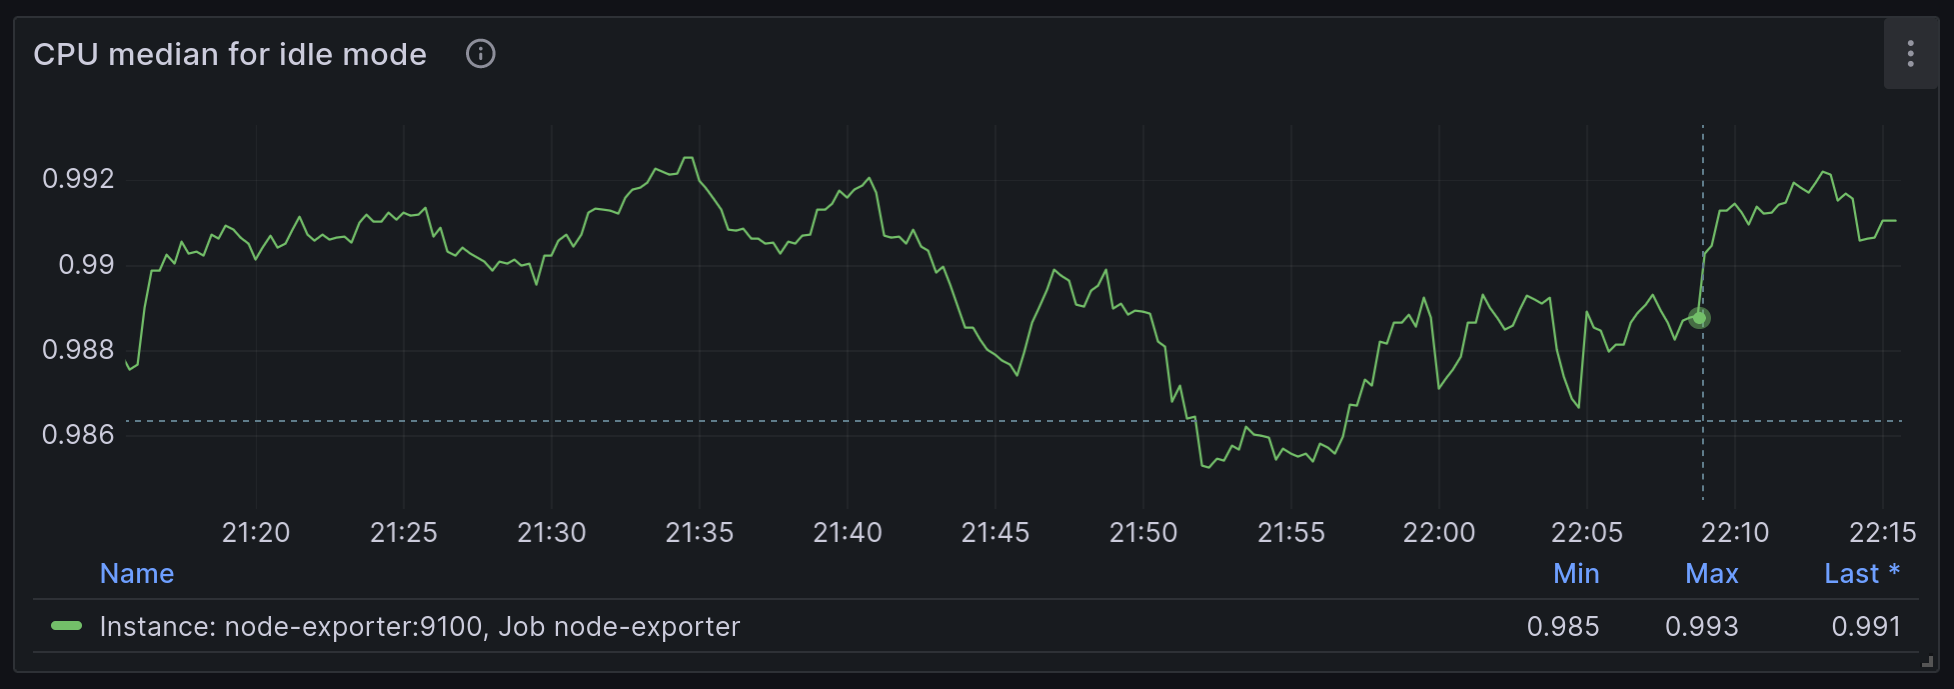
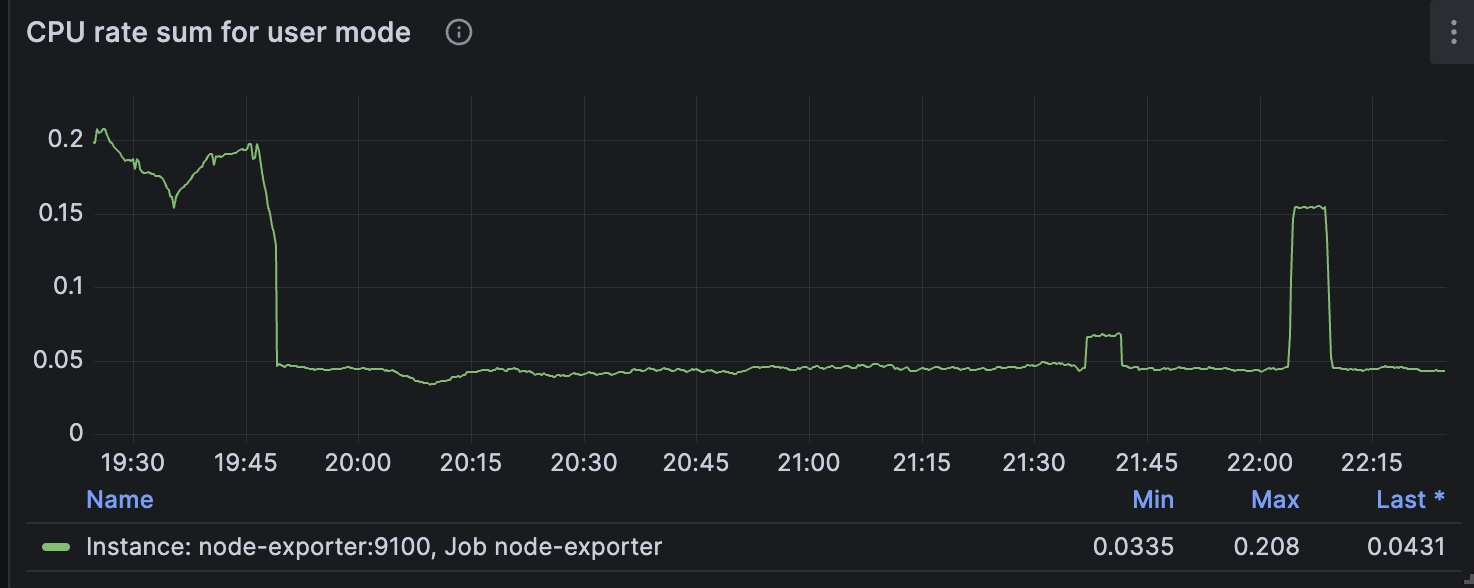
Vmanomaly Guide - dashboard and query change (#5771)
* dashboard fix

* query fix

* changed screenshots

* minor fixes

diff --git a/docs/anomaly-detection/guides/guide-vmanomaly-vmalert.md b/docs/anomaly-detection/guides/guide-vmanomaly-vmalert.md
@@ -101,7 +101,7 @@ node_cpu_seconds_total{cpu="1",mode="iowait"} 51.22
 
 In this context, the metric `node_cpu_seconds_total` provides a comprehensive breakdown of the time each CPU core has spent in various operational modes. These modes include: _user_, _system_, _iowait_, _idle_, _irq&softirq_, _guest_, and _steal_. Each of these eight modes is mutually exclusive, offering distinct insights into CPU activity. For instance, a predominant _iowait_ suggests disk or network bottlenecks, while elevated levels in _user_ or _system_ indicate significant CPU utilization.
 
-The `node_cpu_seconds_total` metric is classified as a [counter](https://docs.victoriametrics.com/keyConcepts.html#counter) type. To analyze the duration each CPU core spends in these modes, it is necessary to compute the rate of change per second using the [rate function](https://docs.victoriametrics.com/MetricsQL.html#rate): `rate(node_cpu_seconds_total)`. For a more refined and smoother aggregation of data by mode, we apply the median function, or the 50% quantile. The resulting query is formulated as follows: `quantile by (mode) (0.5, rate(node_cpu_seconds_total[5m]))`.
+The `node_cpu_seconds_total` metric is classified as a [counter](https://docs.victoriametrics.com/keyConcepts.html#counter) type. To analyze the duration each CPU core spends in these modes, it is necessary to compute the rate of change per second using the [rate function](https://docs.victoriametrics.com/MetricsQL.html#rate): `rate(node_cpu_seconds_total)`. For a more refined and smoother aggregation of data by mode, we apply the sum function. The resulting query is formulated as follows: `sum(rate(node_cpu_seconds_total[5m])) by (mode, instance, job)`.
 
 Below is an illustrative example of how this query might be visualized in Grafana:
 <img alt="node_cpu_rate_graph" src="guide-vmanomaly-vmalert-query.webp">
@@ -160,7 +160,7 @@ model:
 reader:
   datasource_url: "http://victoriametrics:8428/"
   queries:
-    node_cpu_rate: "quantile by (mode) (0.5, rate(node_cpu_seconds_total[5m])"
+    node_cpu_rate: "sum(rate(node_cpu_seconds_total[5m])) by (mode, instance, job)"
 
 writer:
   datasource_url: "http://victoriametrics:8428/"
@@ -199,7 +199,7 @@ groups:
     labels:
       severity: warning
     annotations:
-      summary: Anomaly Score exceeded 1.0. `rate(node_cpu_seconds_total)` is showing abnormal behavior. 
+      summary: Anomaly Score exceeded 1.0. `sum(rate(node_cpu_seconds_total))` is showing abnormal behavior. 
 ```
 
 In the query expression `expr`, it's crucial to establish a criterion based on the generated anomaly scores. Typically, an [anomaly score](https://docs.victoriametrics.com/anomaly-detection/faq/#what-is-anomaly-score) ranging from 0.0 to 1.0 indicates that the analyzed value falls within normal behavior. Scores exceeding 1.0 signal increasing confidence from our model that the observed value is anomalous.
@@ -470,13 +470,13 @@ To look at model results we need to go to grafana on the `localhost:3000`. Data
 vmanomaly need some time to generate more data to visualize.
 Let's investigate model output visualization in Grafana.
 On the Grafana Dashboard `Vmanomaly Guide` for each mode of CPU you can investigate:
-* initial query result - `quantile by (mode) (0.5, rate(node_cpu_seconds_total[5m]))`
+* initial query result - `sum(rate(node_cpu_seconds_total[5m])) by (mode, instance, job)`
 * `anomaly_score` 
 * `yhat` - Predicted value
 * `yhat_lower` - Predicted lower boundary
 * `yhat_upper` - Predicted upper boundary
 
-Each of these metrics will contain same labels our query `quantile by (mode) (0.5, rate(node_cpu_seconds_total[5m]))` returns.
+Each of these metrics will contain same labels our query `sum(rate(node_cpu_seconds_total[5m])) by (mode, instance, job)` returns.
 
 ### Anomaly scores for each metric with its according labels. 
 

diff --git a/deployment/docker/vmanomaly/vmanomaly-integration/README.md b/deployment/docker/vmanomaly/vmanomaly-integration/README.md
@@ -2,14 +2,14 @@
 
 Please read the "vmanomaly integration" guide first - [https://docs.victoriametrics.com/anomaly-detection/guides/guide-vmanomaly-vmalert.html](https://docs.victoriametrics.com/anomaly-detection/guides/guide-vmanomaly-vmalert.html)
 
-To make this Docker compose file work, you MUST replace the content of [vmanomaly_license.txt](https://github.com/VictoriaMetrics/VictoriaMetrics/tree/master/deployment/docker/vmanomaly/vmanomaly-vmalert-guide/vmanomaly_license.txt) with valid license.
+To make this Docker compose file work, you MUST replace the content of [vmanomaly_license](https://github.com/VictoriaMetrics/VictoriaMetrics/tree/master/deployment/docker/vmanomaly/vmanomaly-integration/vmanomaly_license) with valid license.
 
 You can issue the [trial license here](https://victoriametrics.com/products/enterprise/trial/)
 
 
 ## How to run 
 
-1. Replace content of `vmanomaly_license.txt` with your license
+1. Replace content of `vmanomaly_license` with your license
 1. Run
 
 ```sh 
